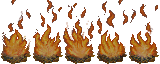
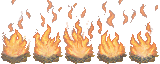
Changed BonFire lightning

diff --git a/core/src/com/coldpixel/sparkle/screens/PlayScreen.java b/core/src/com/coldpixel/sparkle/screens/PlayScreen.java
@@ -15,6 +15,7 @@ import com.badlogic.gdx.maps.tiled.renderers.OrthogonalTiledMapRenderer;
 import com.badlogic.gdx.math.Ellipse;
 import com.badlogic.gdx.math.Vector2;
 import com.badlogic.gdx.physics.box2d.Box2DDebugRenderer;
+import com.badlogic.gdx.physics.box2d.Filter;
 import com.badlogic.gdx.physics.box2d.World;
 import com.badlogic.gdx.utils.viewport.StretchViewport;
 import com.badlogic.gdx.utils.viewport.Viewport;
@@ -84,13 +85,16 @@ public class PlayScreen implements Screen {
         world.setContactListener(new WorldContactListener());
         
         rayHandler = new RayHandler(world);
-        rayHandler.setAmbientLight(.5f);
+        rayHandler.setAmbientLight(1f);
 
         for (BonFire boneFire: b2WorldCreator.getBonFires()) {
             pointLight = new PointLight(rayHandler, 200, Color.WHITE, boneFire.getWidth()/Main.PPM*6, 0, 0);
             pointLight.setSoftnessLength(0f);
             pointLight.attachToBody(boneFire.getBody(),0,15/Main.PPM);
+            pointLight.setIgnoreAttachedBody(true);            
             boneFire.setPointLight(pointLight);
+            
+            
         }
     }
 
@@ -125,12 +129,14 @@ public class PlayScreen implements Screen {
         main.batch.setProjectionMatrix(cam.combined);
         rayHandler.setCombinedMatrix(cam);
         main.batch.begin();
-        player.draw(main.batch);
+        player.draw(main.batch);        
+        main.batch.end();
+        rayHandler.render();
+        main.batch.begin();
         for (BonFire boneFire: b2WorldCreator.getBonFires()) {
             boneFire.draw(main.batch);
         }
         main.batch.end();
-        rayHandler.render();
         player.targetLine();
 
         hud.drawHUD();
